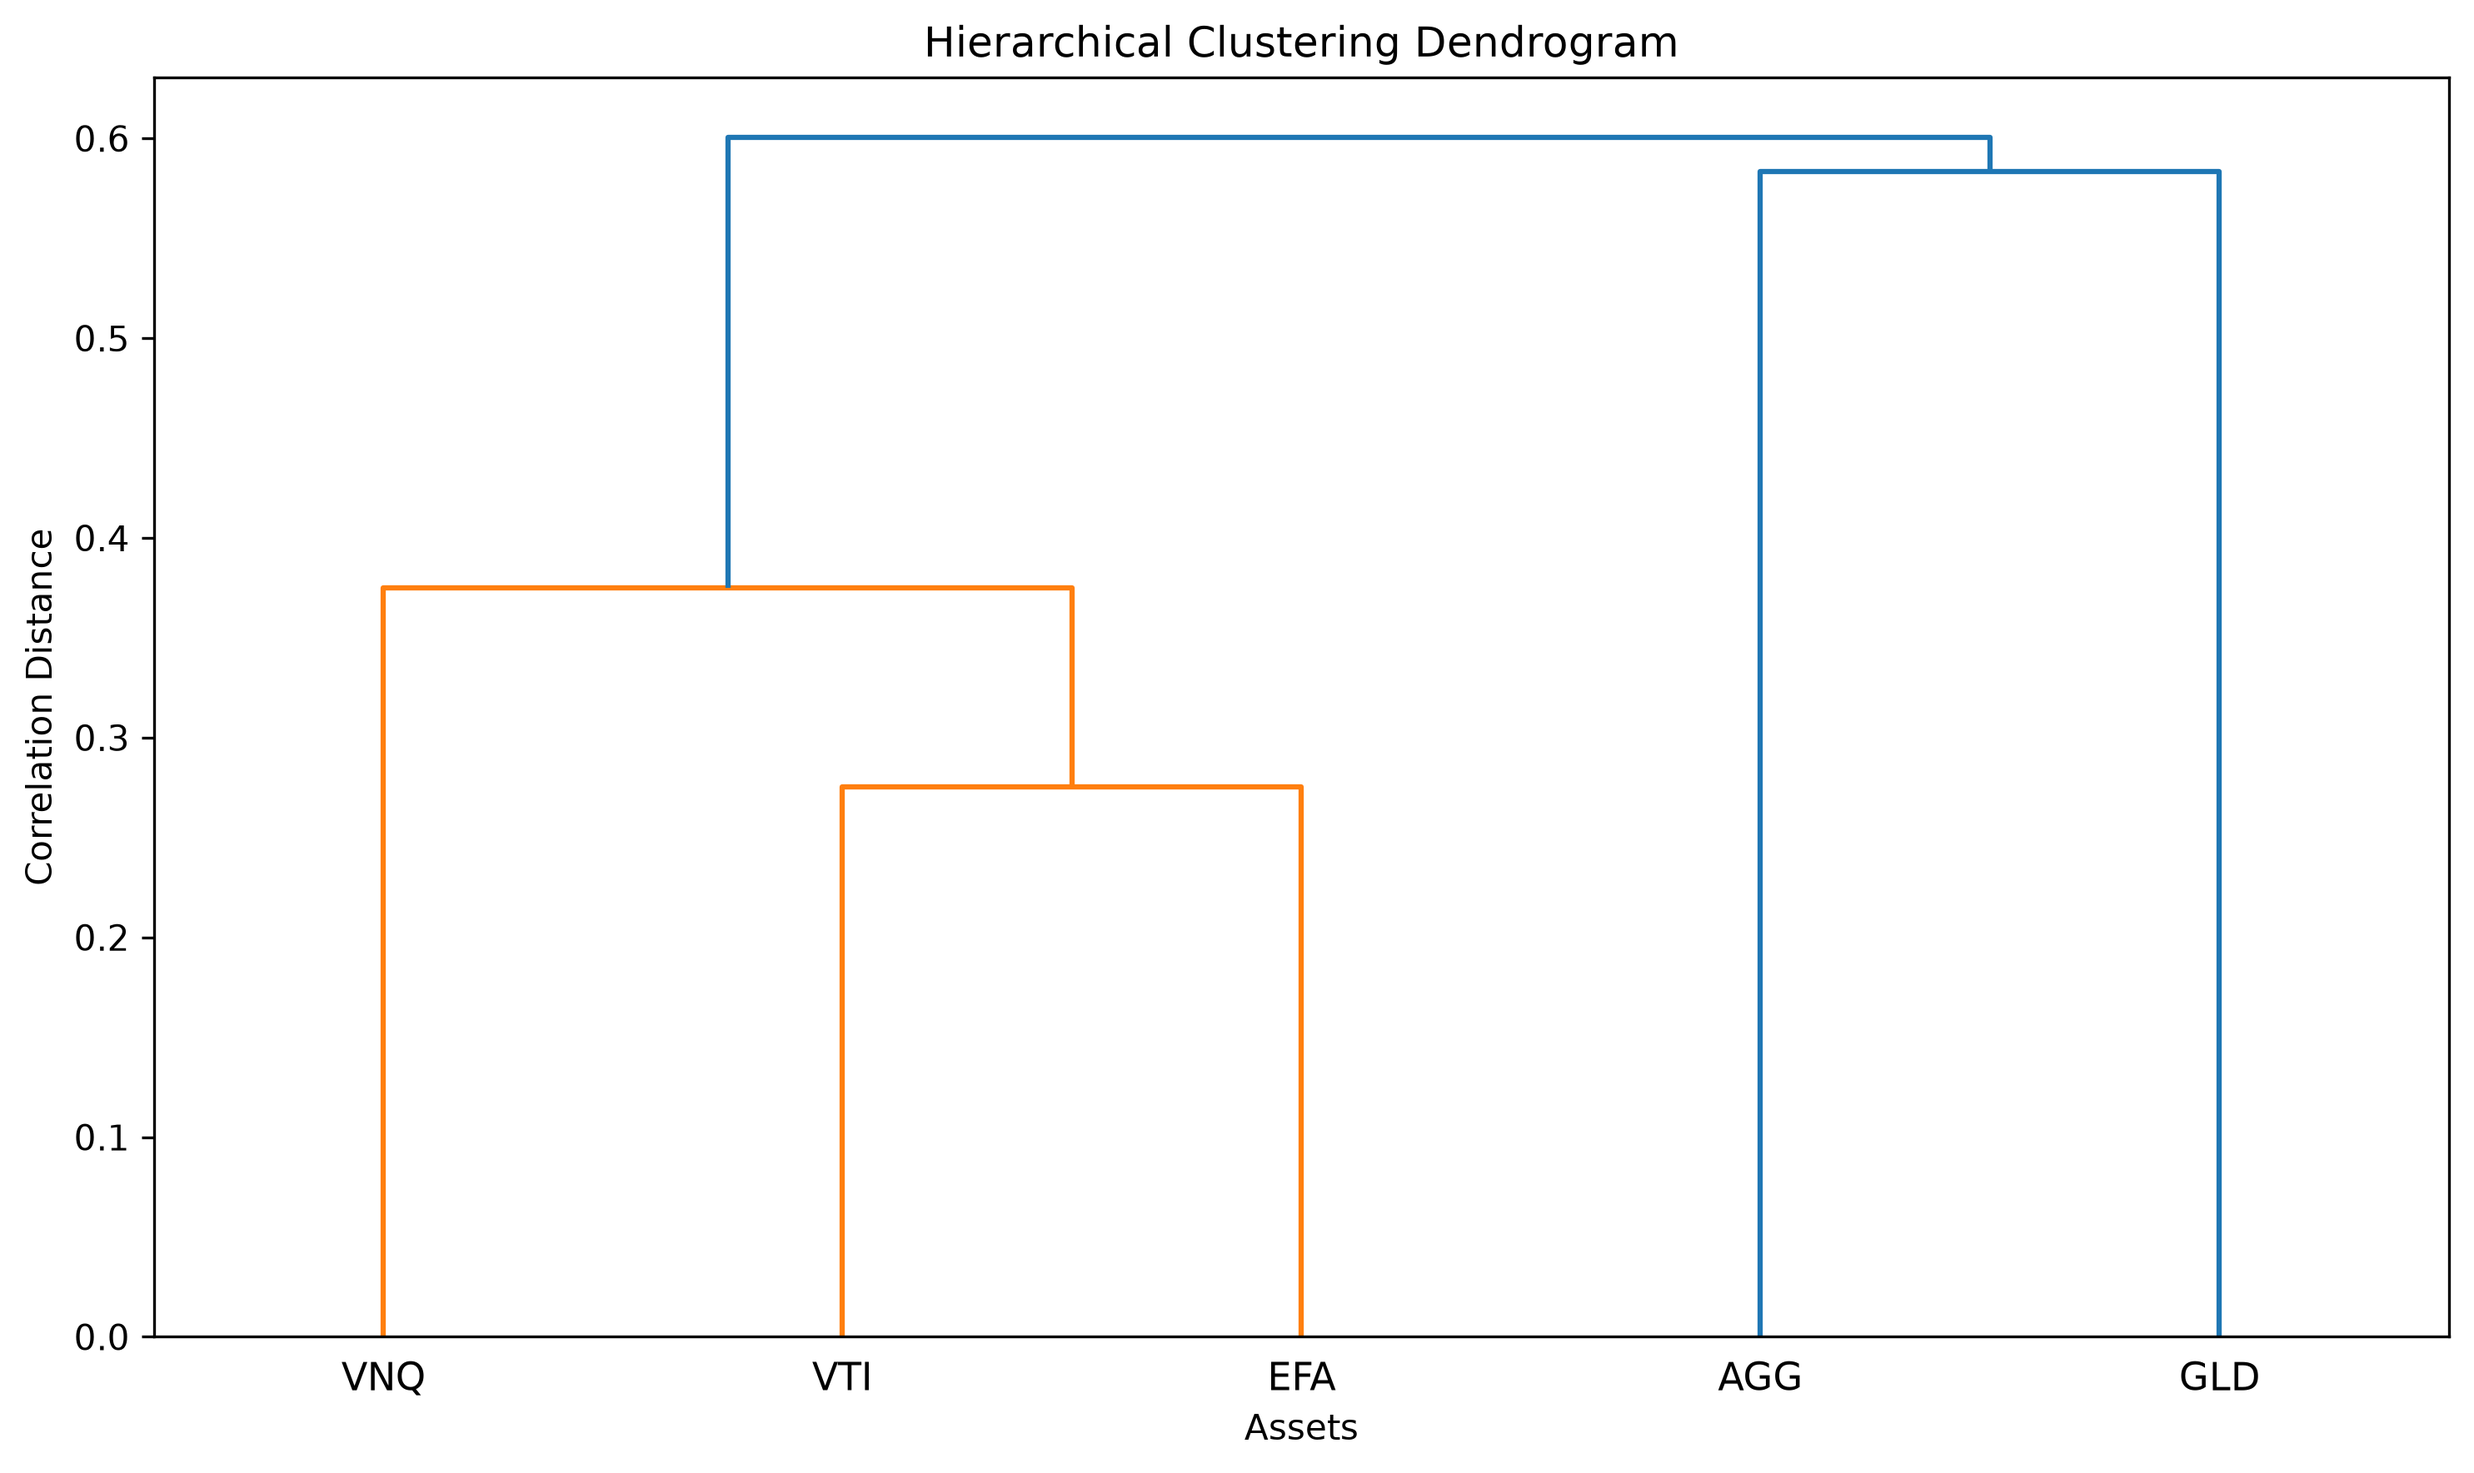
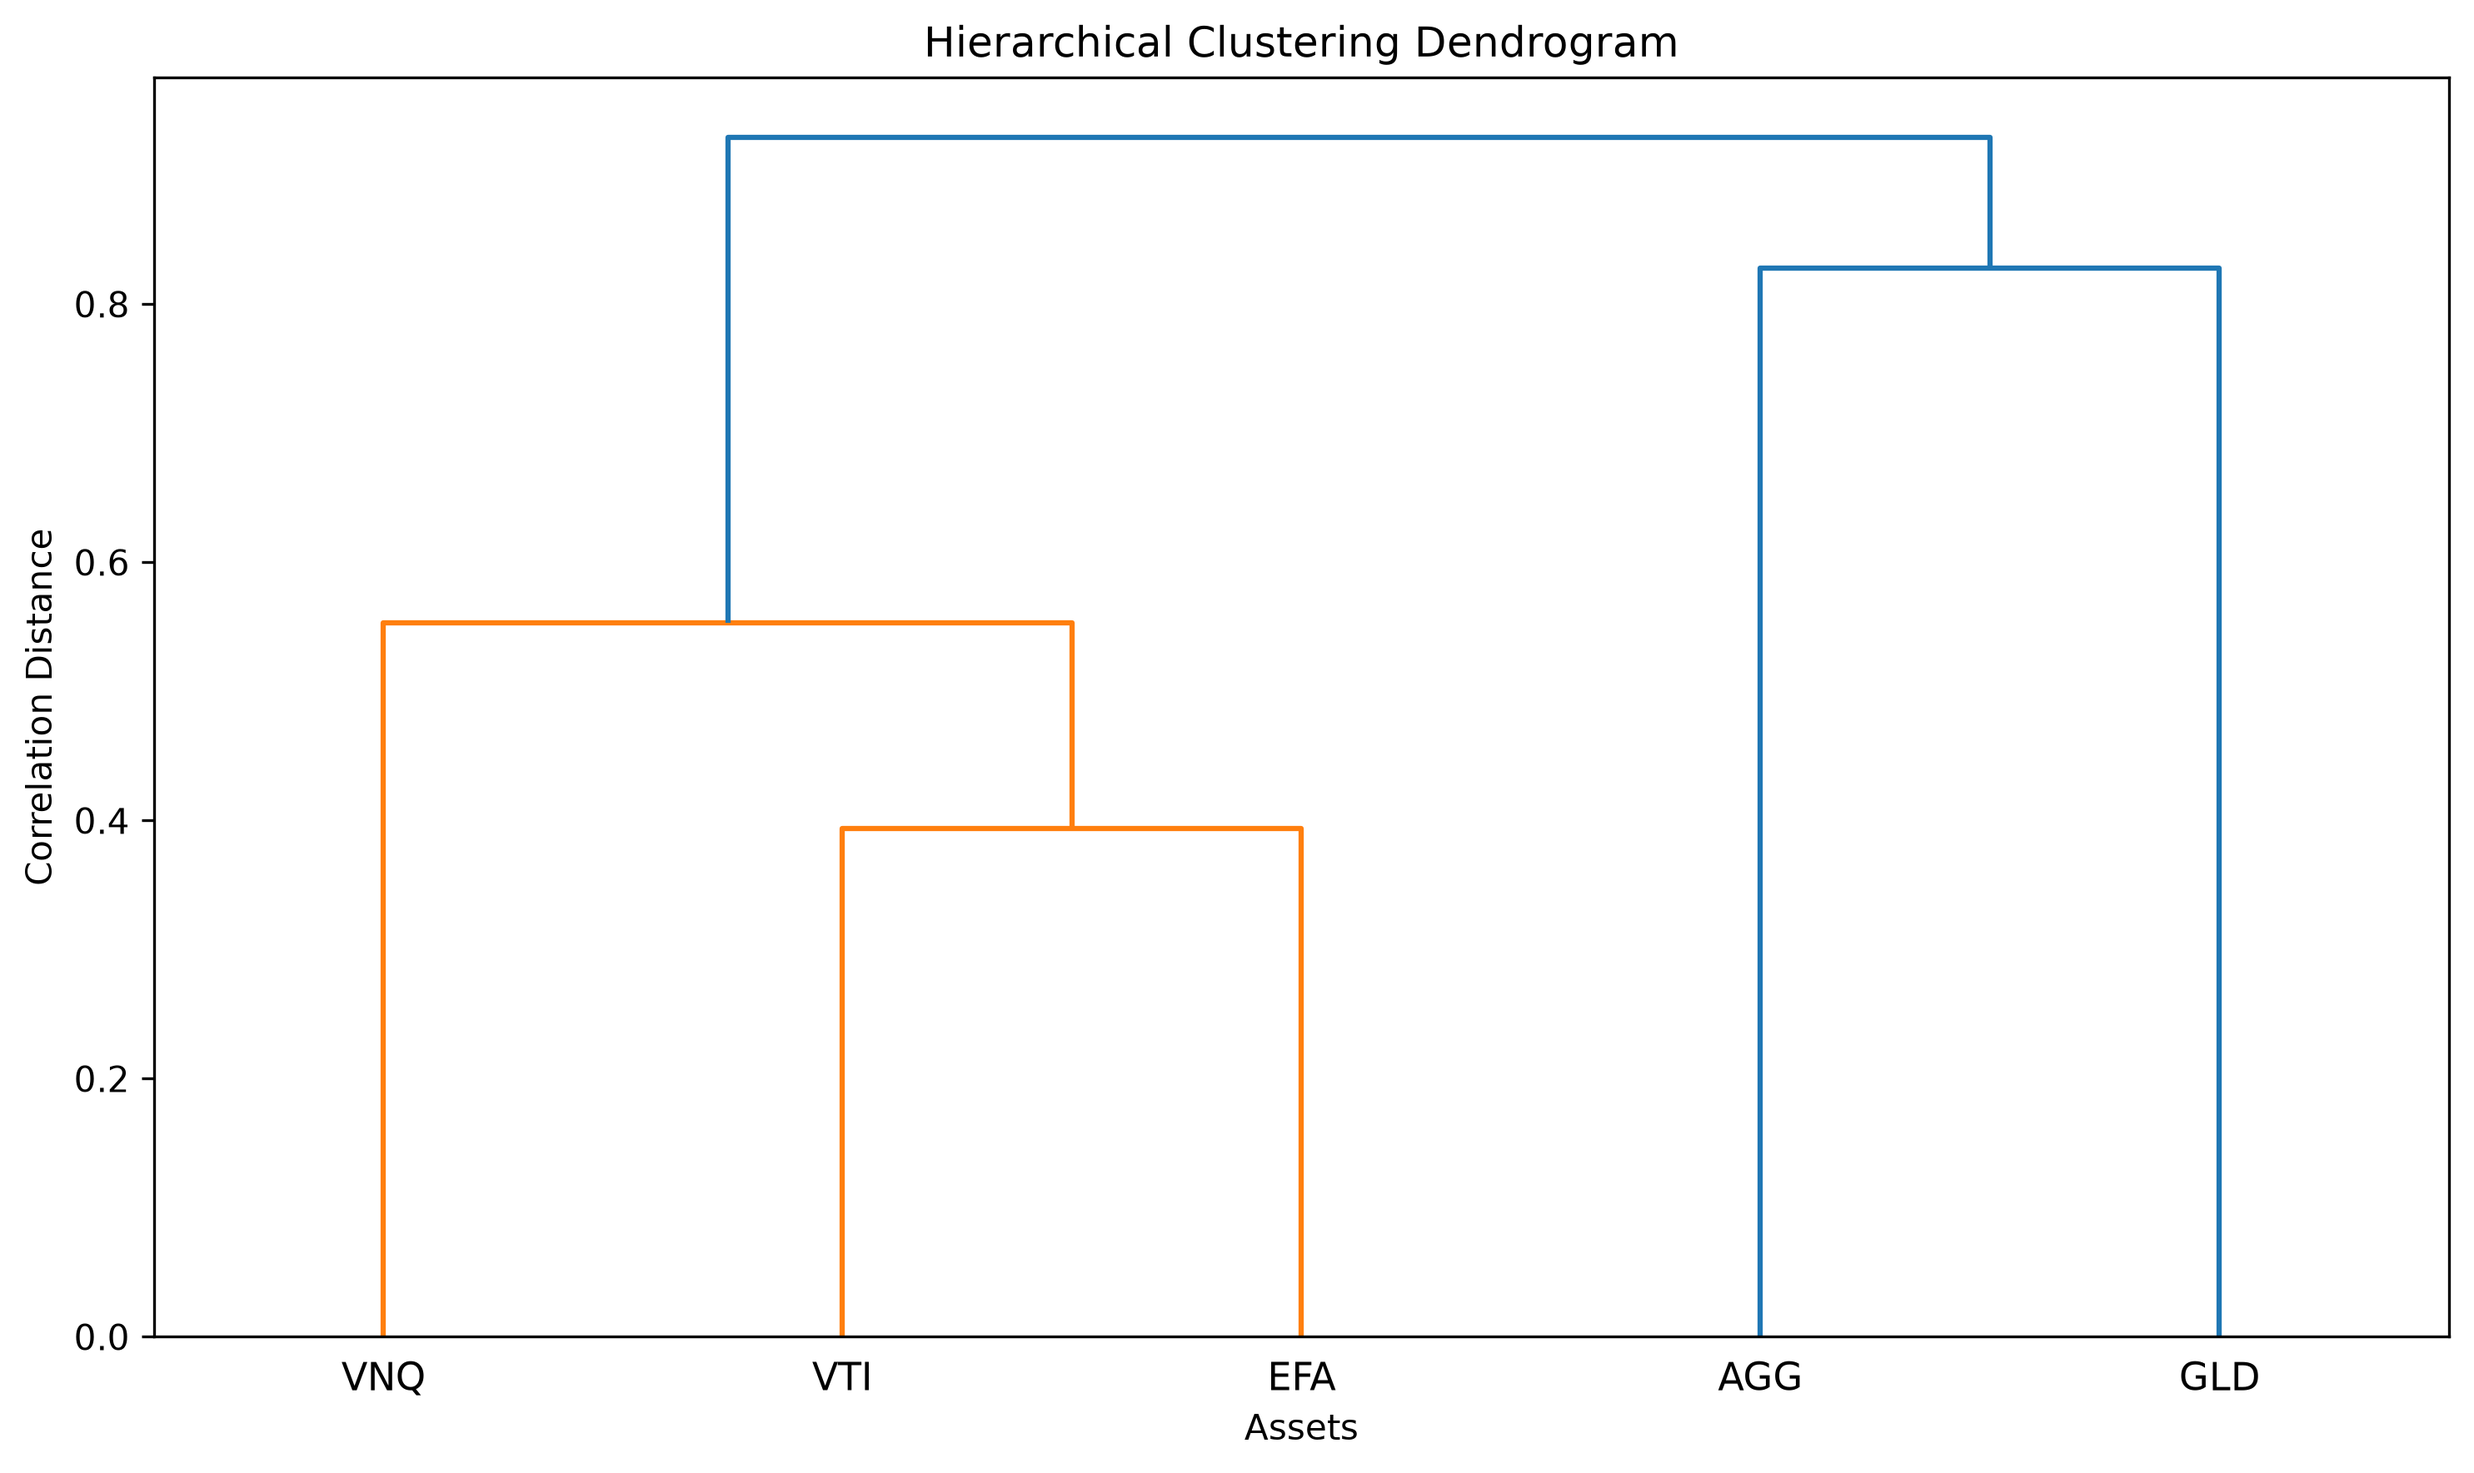
Implementing secondary distance for HRP clustering
Change from using correlation-based distance to calculate clusters to secondary distance (comparing each assets whole profile of distances)

diff --git a/src/hrp.py b/src/hrp.py
@@ -7,7 +7,7 @@ import matplotlib.pyplot as plt
 import seaborn as sns
 
 from scipy.cluster.hierarchy import linkage, dendrogram, leaves_list
-from scipy.spatial.distance import squareform
+from scipy.spatial.distance import pdist, squareform
 
 
 # --------------------------------------------------
@@ -77,9 +77,22 @@ def load_returns():
 
 
 def calculate_clustering(returns):
+    """
+    Calculate correlation, primary distance and secondary distance,
+    then perform hierarchical clustering.
+
+    The primary distance measures the dissimilarity between each
+    pair of assets based on their correlation.
+
+    The secondary distance measures the dissimilarity between
+    the primary distance profiles of each pair of assets.
+    """
+
+    # 1. Calculate the correlation matrix
     correlation = returns.corr()
 
-    distance_values = np.sqrt(
+    # 2. Calculate the primary distance matrix
+    primary_distance_values = np.sqrt(
         np.clip(
             (1.0 - correlation.to_numpy(dtype=float)) / 2.0,
             0.0,
@@ -87,24 +100,34 @@ def calculate_clustering(returns):
         )
     )
 
-    np.fill_diagonal(distance_values, 0.0)
+    np.fill_diagonal(primary_distance_values, 0.0)
 
-    condensed_distance = squareform(distance_values, checks=True)
+    # 3. Calculate the secondary distance matrix
+    # Compare the primary distance profiles of each asset.
+    secondary_distance_values = squareform(
+        pdist(
+            primary_distance_values.T,
+            metric="euclidean"
+        )
+    )
 
+    # 4. Convert the secondary distance matrix into
+    # the condensed format required by SciPy linkage.
+    condensed_secondary_distance = squareform(
+        secondary_distance_values,
+        checks=True
+    )
+
+    # 5. Perform hierarchical clustering using single linkage
     linkage_matrix = linkage(
-        condensed_distance,
+        condensed_secondary_distance,
         method="single"
     )
 
+    # 6. Obtain the quasi-diagonal asset ordering
     leaf_order = leaves_list(linkage_matrix)
+
     ordered_assets = returns.columns[leaf_order].tolist()
-
-    return correlation, linkage_matrix, ordered_assets
-
-
-    # Order assets according to dendrogram leaves
-    ordered_indices = leaves_list(linkage_matrix)
-    ordered_assets = correlation.columns[ordered_indices]
 
     return correlation, linkage_matrix, ordered_assets
 
